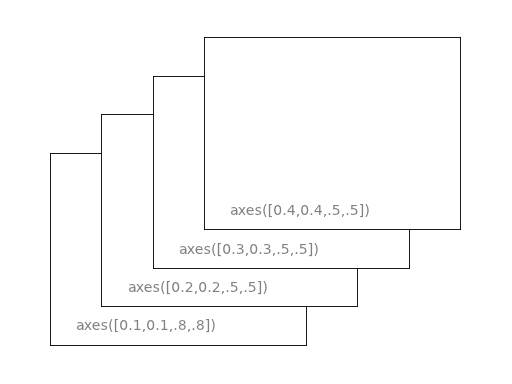
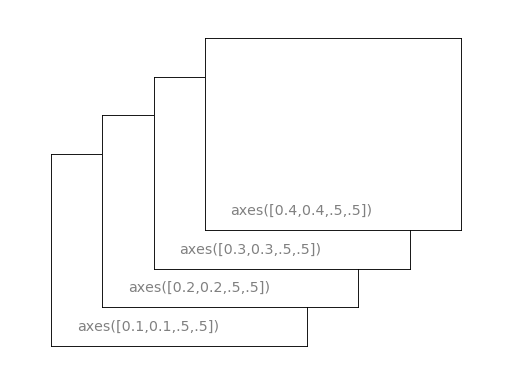
axes-2: fix box text label to match actual code.

Changed region(s): [[0.0938, 0.0938, 0.9062, 0.9062], [0.4375, 0.5312, 0.75, 0.5625]]

diff --git a/scripts/axes-2.py b/scripts/axes-2.py
@@ -2,7 +2,7 @@ from pylab import *
 
 axes([0.1,0.1,.5,.5])
 xticks([]), yticks([])
-text(0.1,0.1, 'axes([0.1,0.1,.8,.8])',ha='left',va='center',size=16,alpha=.5)
+text(0.1,0.1, 'axes([0.1,0.1,.5,.5])',ha='left',va='center',size=16,alpha=.5)
 
 axes([0.2,0.2,.5,.5])
 xticks([]), yticks([])
